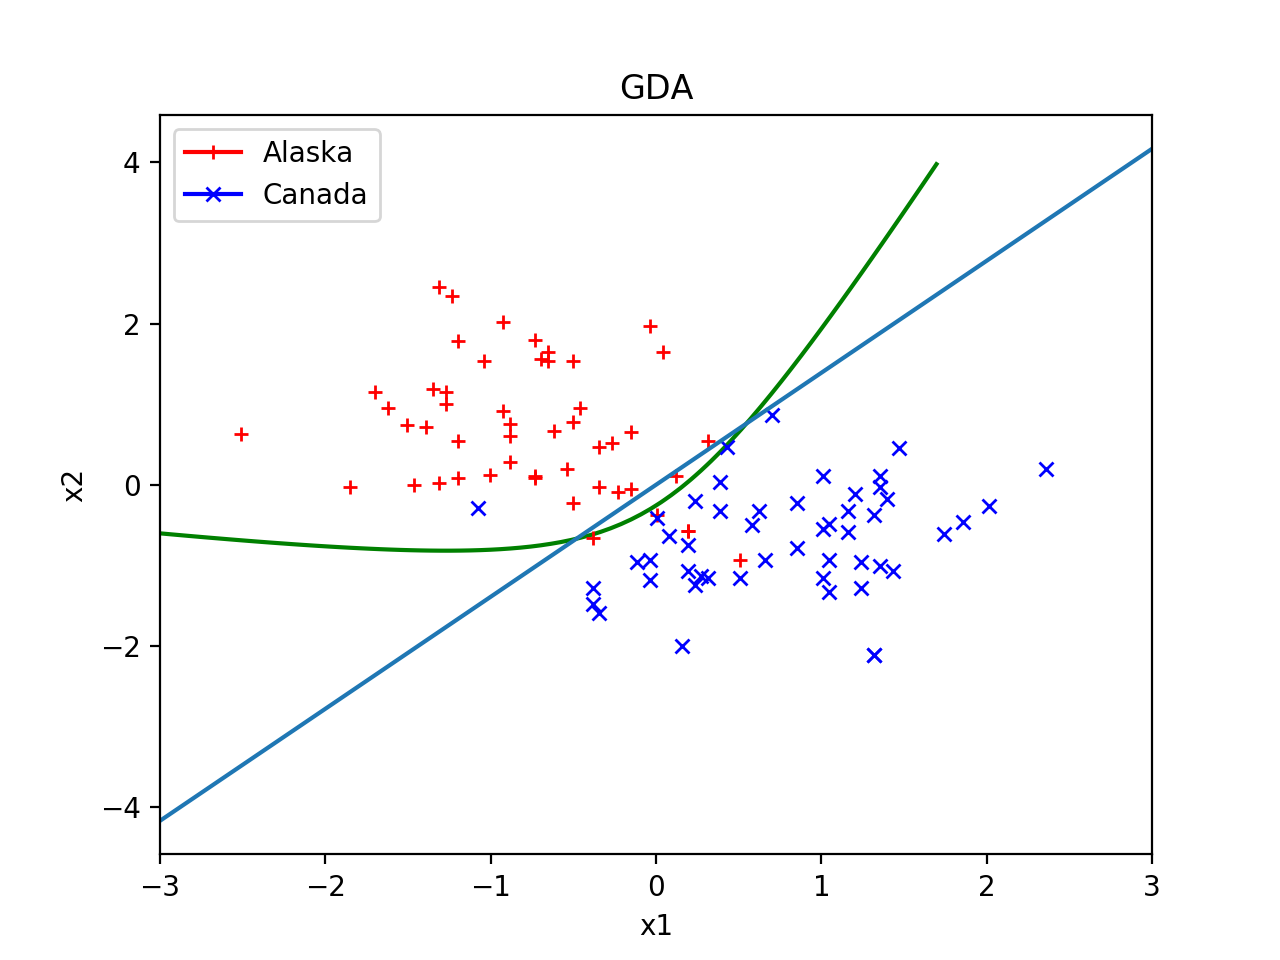
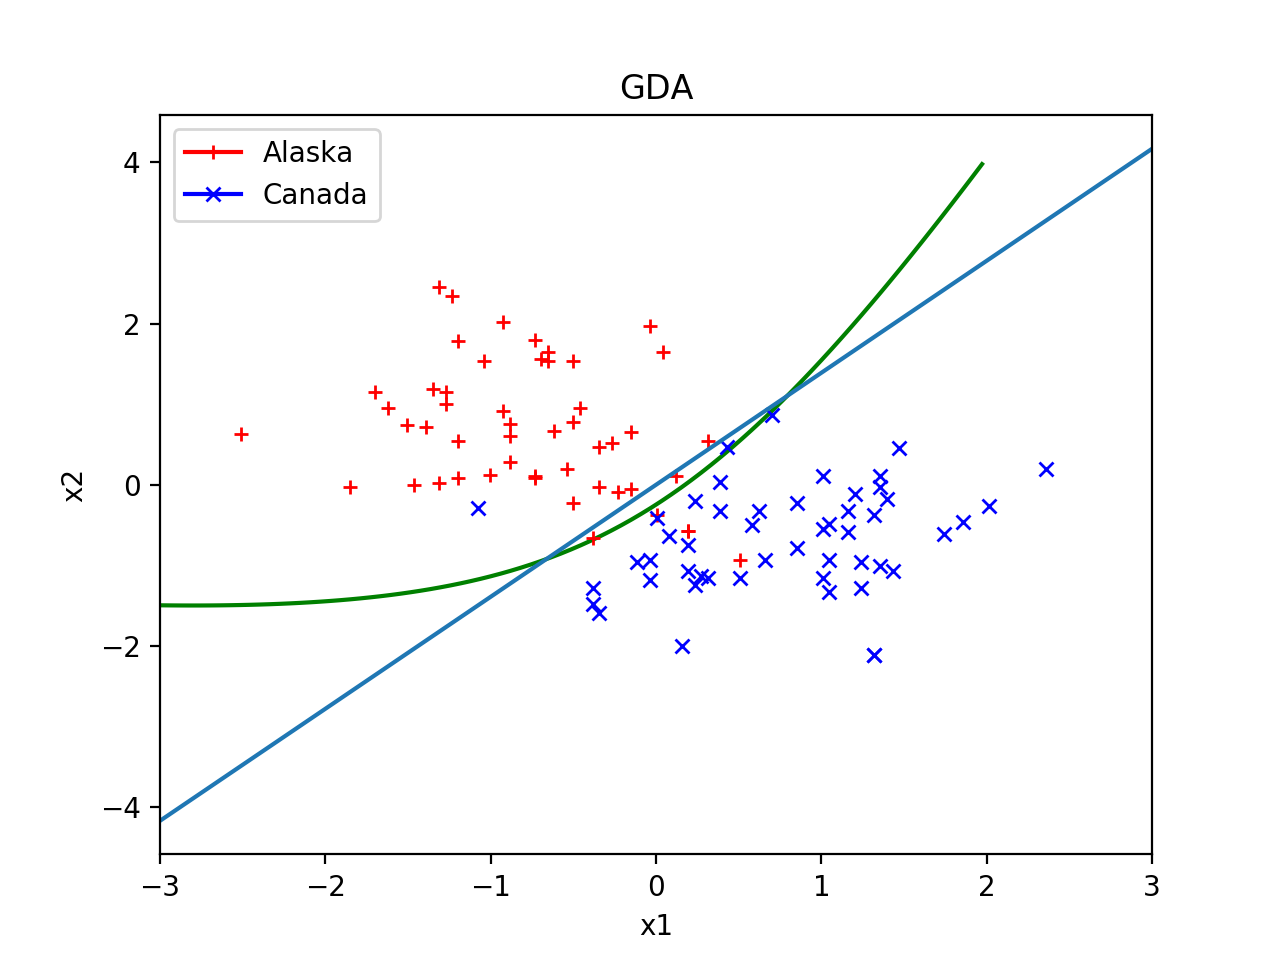
slight bug

diff --git a/Assignment 1/q4.py b/Assignment 1/q4.py
@@ -105,7 +105,7 @@ def plot_2D(x, y):
   sigma1_inverse_mu_1 = np.dot(sigma1_inverse, mu1)
   sigma0_inverse_mu_0 = np.dot(sigma0_inverse, mu0)
   K1_quadratic = sigma0_inverse_mu_0 - sigma1_inverse_mu_1
-  K2_quadratic = sigma1_inverse - sigma0_inverse
+  K2_quadratic = (sigma1_inverse - sigma0_inverse) / 2
   constant_quadratic = - ((np.dot(mu1.T, sigma1_inverse_mu_1) - np.dot(mu0.T, sigma0_inverse_mu_0)) / 2)
   + math.log((1 - phi_y) / phi_y) + (math.log(np.linalg.det(sigma0) / np.linalg.det(sigma1)) / 2)
 
